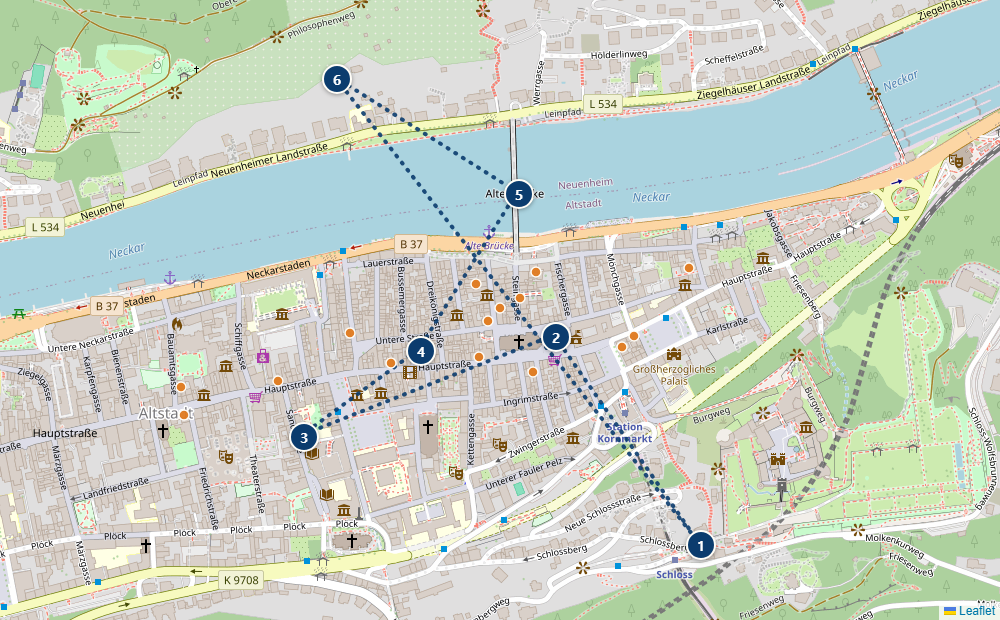
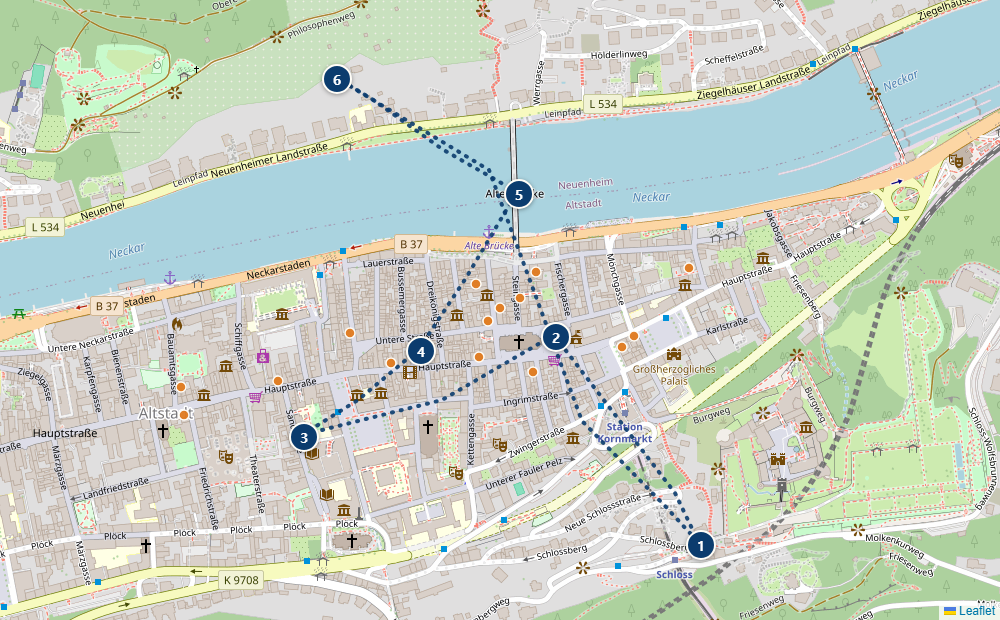
Redraw Heidelberg walking route to follow real streets instead of straight lines
Traced waypoints along the actual route (Kurzer Buckel/Burgweg down
from the castle, Hauptstrasse to the university museum, Steingasse to
Alte Brucke, across the bridge and along Philosophenweg, then back
through the old town to the castle) instead of straight segments
between the 6 numbered stops. Pins and food-spot dots unchanged.

diff --git a/germany-roadtrip-planner.html b/germany-roadtrip-planner.html
@@ -3438,7 +3438,7 @@ document.addEventListener('DOMContentLoaded', function(){
       <a class="walk-map-link" href="https://www.google.com/maps/dir/?api=1&travelmode=walking&origin=49.4093,8.7135&destination=49.4093,8.7135&waypoints=49.4122%2C8.7104%7C49.4121%2C8.7097%7C49.4114%2C8.7062%7C49.4113%2C8.7064%7C49.4142%2C8.7096%7C49.4158,8.7057" target="_blank" rel="noopener">📍 Google 지도로 도보 코스 보기(성 등산철도역 출발·도착) · 총 약 4.3km · 도보 약 1시간 18분</a>
       <div class="route-snapshot">
         <div class="route-snapshot-media">
-          <img src="images/routes/heidelberg.png?v=3" alt="하이델베르크 도보 코스 지도 스냅샷" loading="lazy">
+          <img src="images/routes/heidelberg.png?v=4" alt="하이델베르크 도보 코스 지도 스냅샷" loading="lazy">
         </div>
         <ol class="route-steps">
         <li><span class="rs-name">하이델베르크 성(Schloss)</span></li>

diff --git a/index.html b/index.html
@@ -3438,7 +3438,7 @@ document.addEventListener('DOMContentLoaded', function(){
       <a class="walk-map-link" href="https://www.google.com/maps/dir/?api=1&travelmode=walking&origin=49.4093,8.7135&destination=49.4093,8.7135&waypoints=49.4122%2C8.7104%7C49.4121%2C8.7097%7C49.4114%2C8.7062%7C49.4113%2C8.7064%7C49.4142%2C8.7096%7C49.4158,8.7057" target="_blank" rel="noopener">📍 Google 지도로 도보 코스 보기(성 등산철도역 출발·도착) · 총 약 4.3km · 도보 약 1시간 18분</a>
       <div class="route-snapshot">
         <div class="route-snapshot-media">
-          <img src="images/routes/heidelberg.png?v=3" alt="하이델베르크 도보 코스 지도 스냅샷" loading="lazy">
+          <img src="images/routes/heidelberg.png?v=4" alt="하이델베르크 도보 코스 지도 스냅샷" loading="lazy">
         </div>
         <ol class="route-steps">
         <li><span class="rs-name">하이델베르크 성(Schloss)</span></li>
